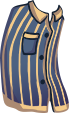
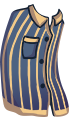
Pelihahmon koon säätäminen.

diff --git a/core/src/fi/tamk/dreampult/Objects/Player.java b/core/src/fi/tamk/dreampult/Objects/Player.java
@@ -25,7 +25,7 @@ public class Player {
     Bodypart rightArm;
 
     float width = 0.3f;
-    float height = 1f;
+    float height = 0.6f;
 
     float limbWidth = width / 1.5f;
     float limbHeight = height / 1.5f;
@@ -52,10 +52,10 @@ public class Player {
         Texture imgHead = game.assets.get("./images/player/headwithball.png", Texture.class);
 
         head.createBodypart("head", width, width, true, imgHead);
-        leftLeg.createBodypart("left leg", 0.2f, 0.6f, true, imgLeg);
-        leftArm.createBodypart("left arm", 0.2f, 0.6f, true, imgLeftArm);
-        rightLeg.createBodypart("right leg", 0.2f, 0.6f, true, imgLeg);
-        rightArm.createBodypart("right arm", 0.2f, 0.6f, true, imgRightArm);
+        leftLeg.createBodypart("left leg", 0.2f, 0.4f, true, imgLeg);
+        leftArm.createBodypart("left arm", 0.2f, 0.4f, true, imgLeftArm);
+        rightLeg.createBodypart("right leg", 0.2f, 0.4f, true, imgLeg);
+        rightArm.createBodypart("right arm", 0.2f, 0.4f, true, imgRightArm);
         torso.createBodypart("torso", width, height, false, imgBody);
 
         connectBodypart(torso, leftArm,

diff --git a/core/src/fi/tamk/dreampult/Handlers/AssetHandler.java b/core/src/fi/tamk/dreampult/Handlers/AssetHandler.java
@@ -20,7 +20,7 @@ public class AssetHandler {
         manager.load("./images/player/leg.png", Texture.class);
         manager.load("./images/player/left_arm.png", Texture.class);
         manager.load("./images/player/right_arm.png", Texture.class);
-        manager.load("./images/player/pyjama/left_sleeve_fixed.png", Texture.class);
+        manager.load("./images/player/pyjama/left_sleeve.png", Texture.class);
         manager.load("./images/player/pyjama/right_sleeve.png", Texture.class);
         manager.load("./images/player/pyjama/shirt.png", Texture.class);
 

diff --git a/core/src/fi/tamk/dreampult/Objects/Clothes.java b/core/src/fi/tamk/dreampult/Objects/Clothes.java
@@ -21,7 +21,7 @@ public class Clothes {
     public Clothes(GameLoop game) {
         this.game = game;
 
-        leftSleeve = game.assets.get("./images/player/pyjama/left_sleeve_fixed.png", Texture.class);
+        leftSleeve = game.assets.get("./images/player/pyjama/left_sleeve.png", Texture.class);
         rightSleeve = game.assets.get("./images/player/pyjama/right_sleeve.png", Texture.class);
         shirt = game.assets.get("./images/player/pyjama/shirt.png", Texture.class);
     }
